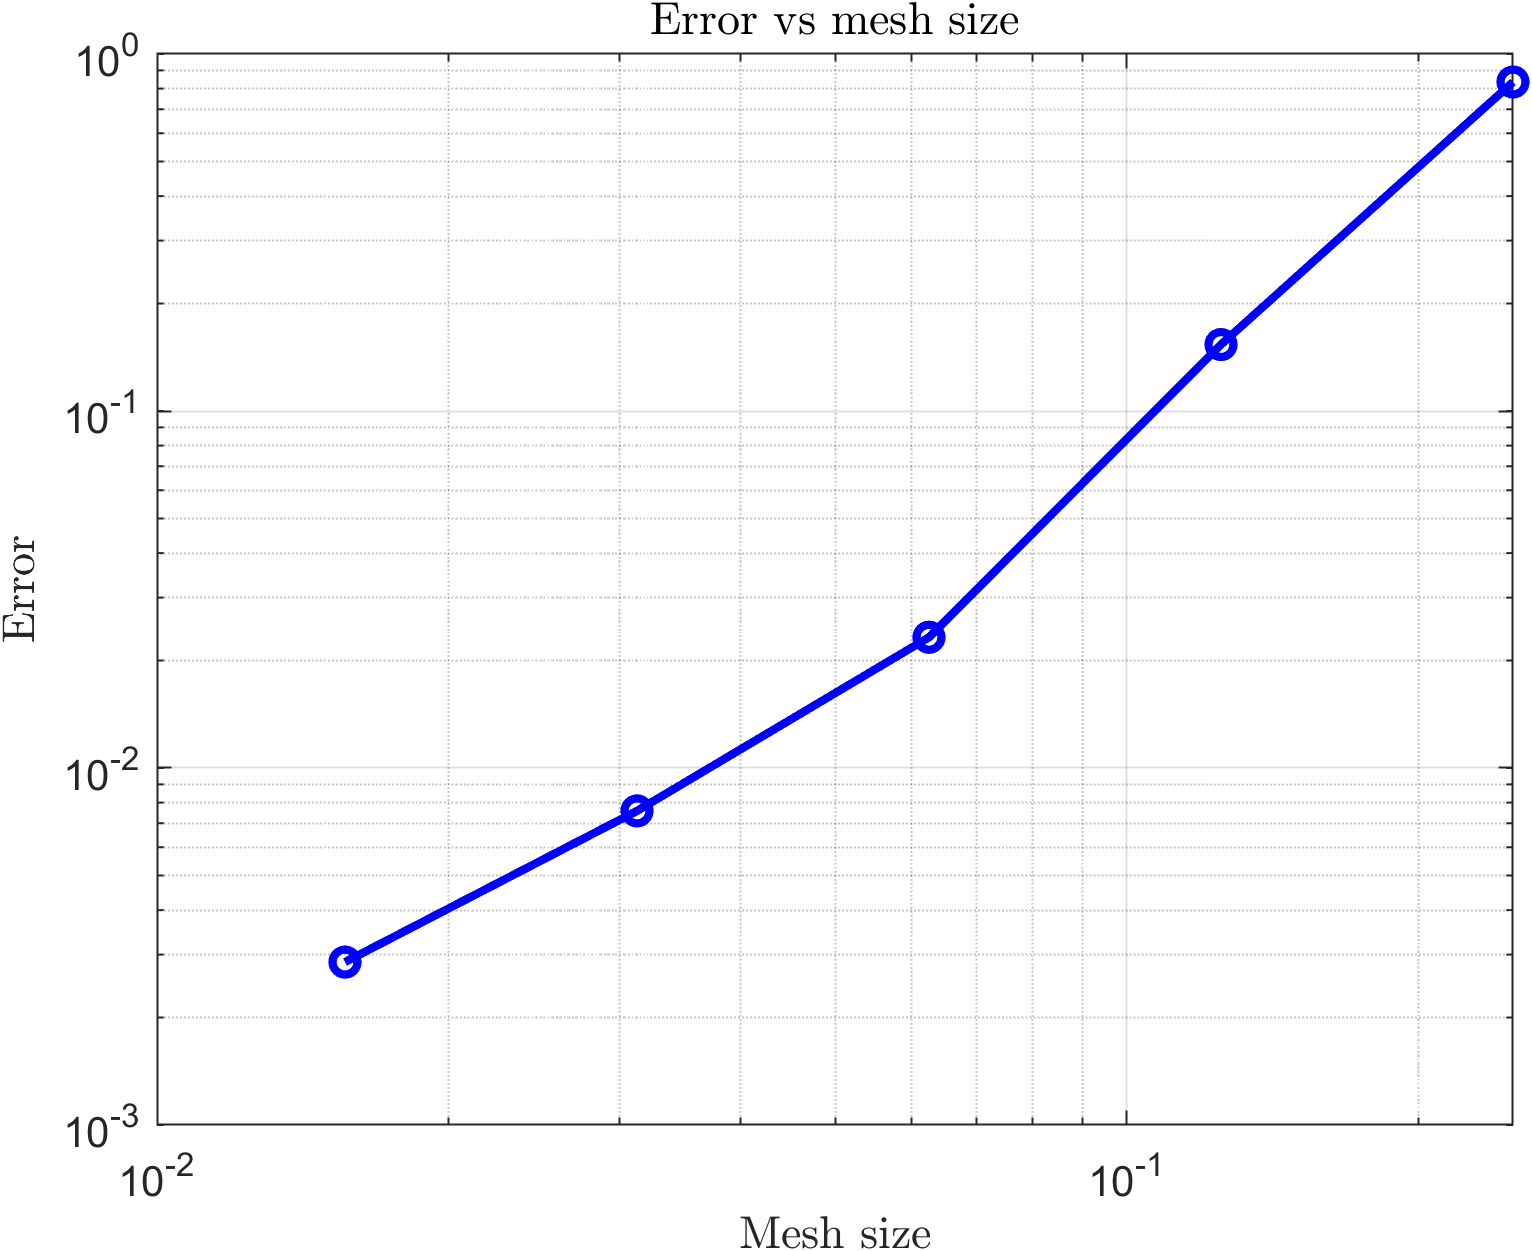
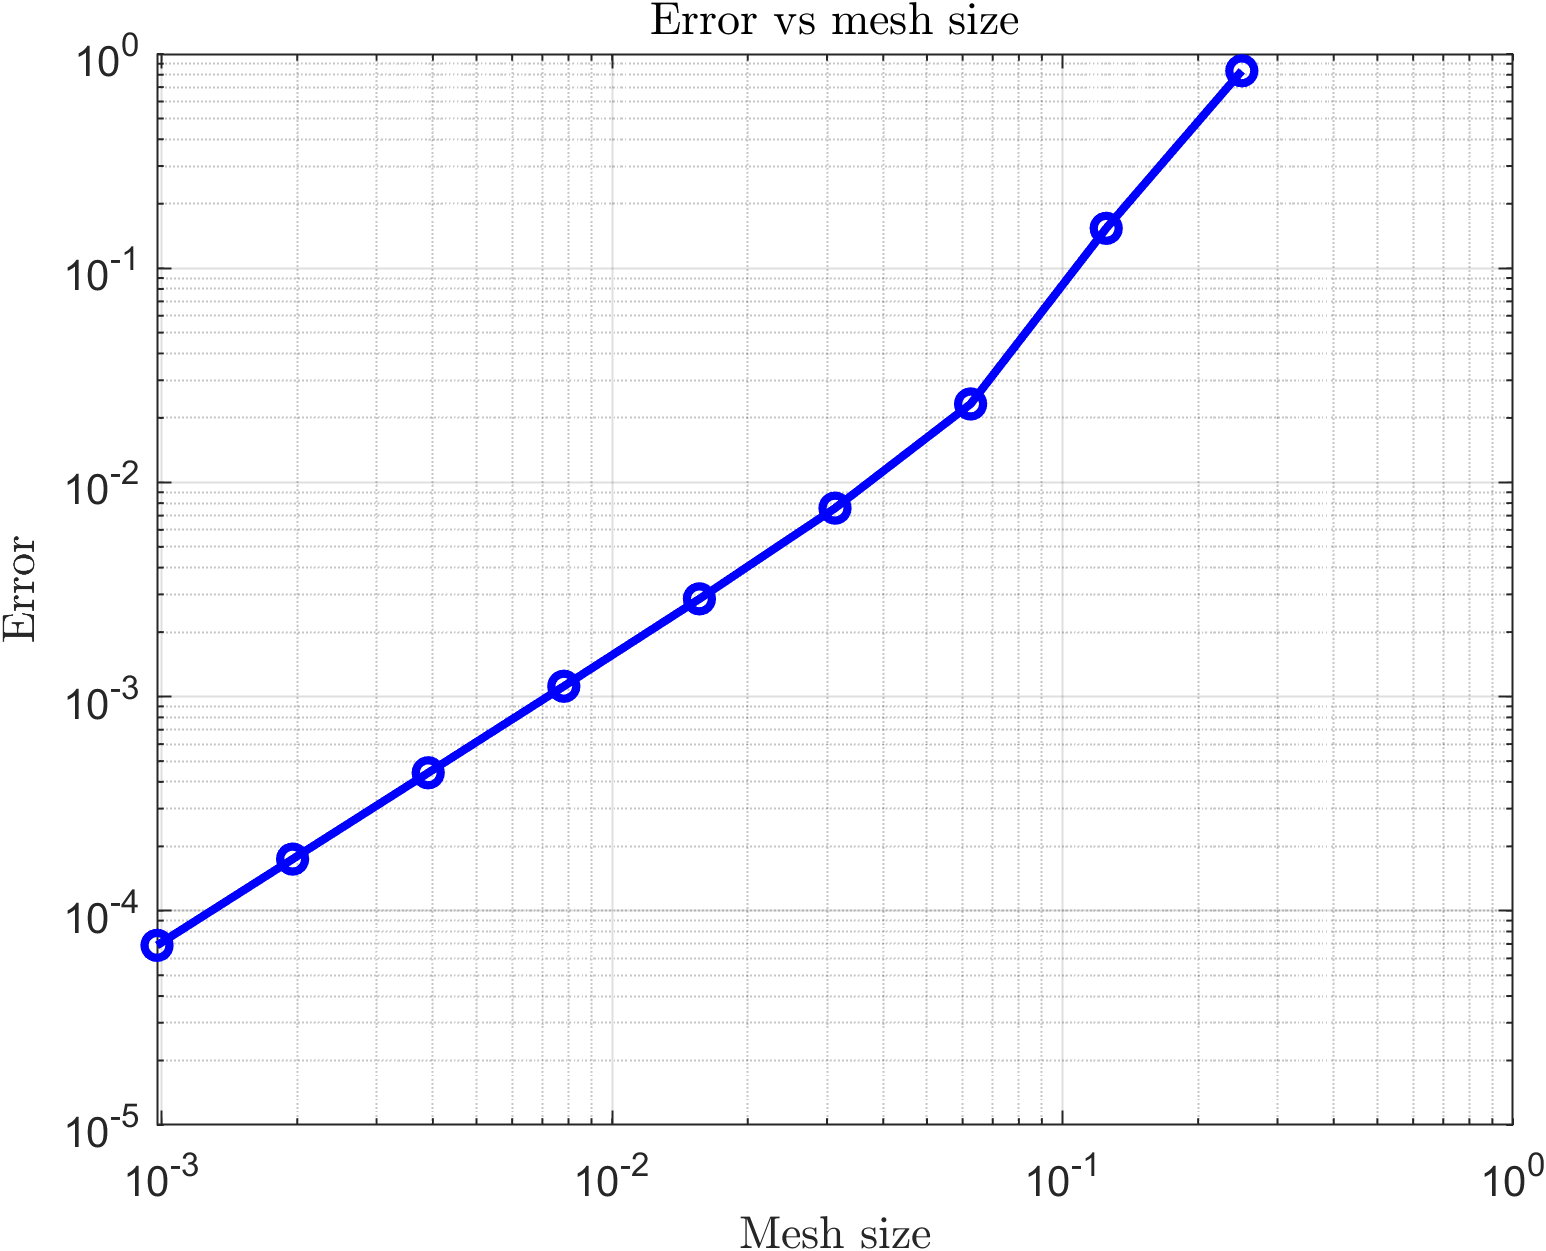
piccole modifiche

diff --git a/Progetto esame/test/ostacolo_curvilineo.m b/Progetto esame/test/ostacolo_curvilineo.m
@@ -16,14 +16,14 @@ obs_der_abs = @(t) abs(obs_der(t));
 
 
 k = 20;
-N = 4*k; % degrees of freedom. (Usually N ~ k ~ 1/h). Here I use N=4*k or N = 1000 for some test
+N = 500; % degrees of freedom. (Usually N ~ k ~ 1/h). Here I use N=4*k or N = 1000 for some test
 x_lim = [-2 2]; 
 y_lim = [-2 2];
 theta = pi;
 n_gauss_pts_plot = 5;
 n_gauss_pts_off_diag = 5;
 n_gauss_pts_on_diag = 30;
-n_points_plot = 150;
+n_points_plot = 300;
 u_inc=@(x) exp(1i * k * real(x*exp(-1i*theta))); 
 
 %%%%%%%%%%%%%%%%%%%%%%%%%%%%%%%%%%%%%%%%%%%%%%%%%%%%%%%%%%%%%%%%%%%%%%%%%%%
@@ -87,8 +87,6 @@ y_q = obs(t(1:N) + dt*xq_plot.');
 
 % xq_plot = reshape(xq_plot, 1, 1, n_gauss_pts_plot);
 % wq_plot = reshape(wq_plot, 1, 1, n_gauss_pts_plot);
-
-
 
 for j = 1:numel(Z)
     if ~in(j)
